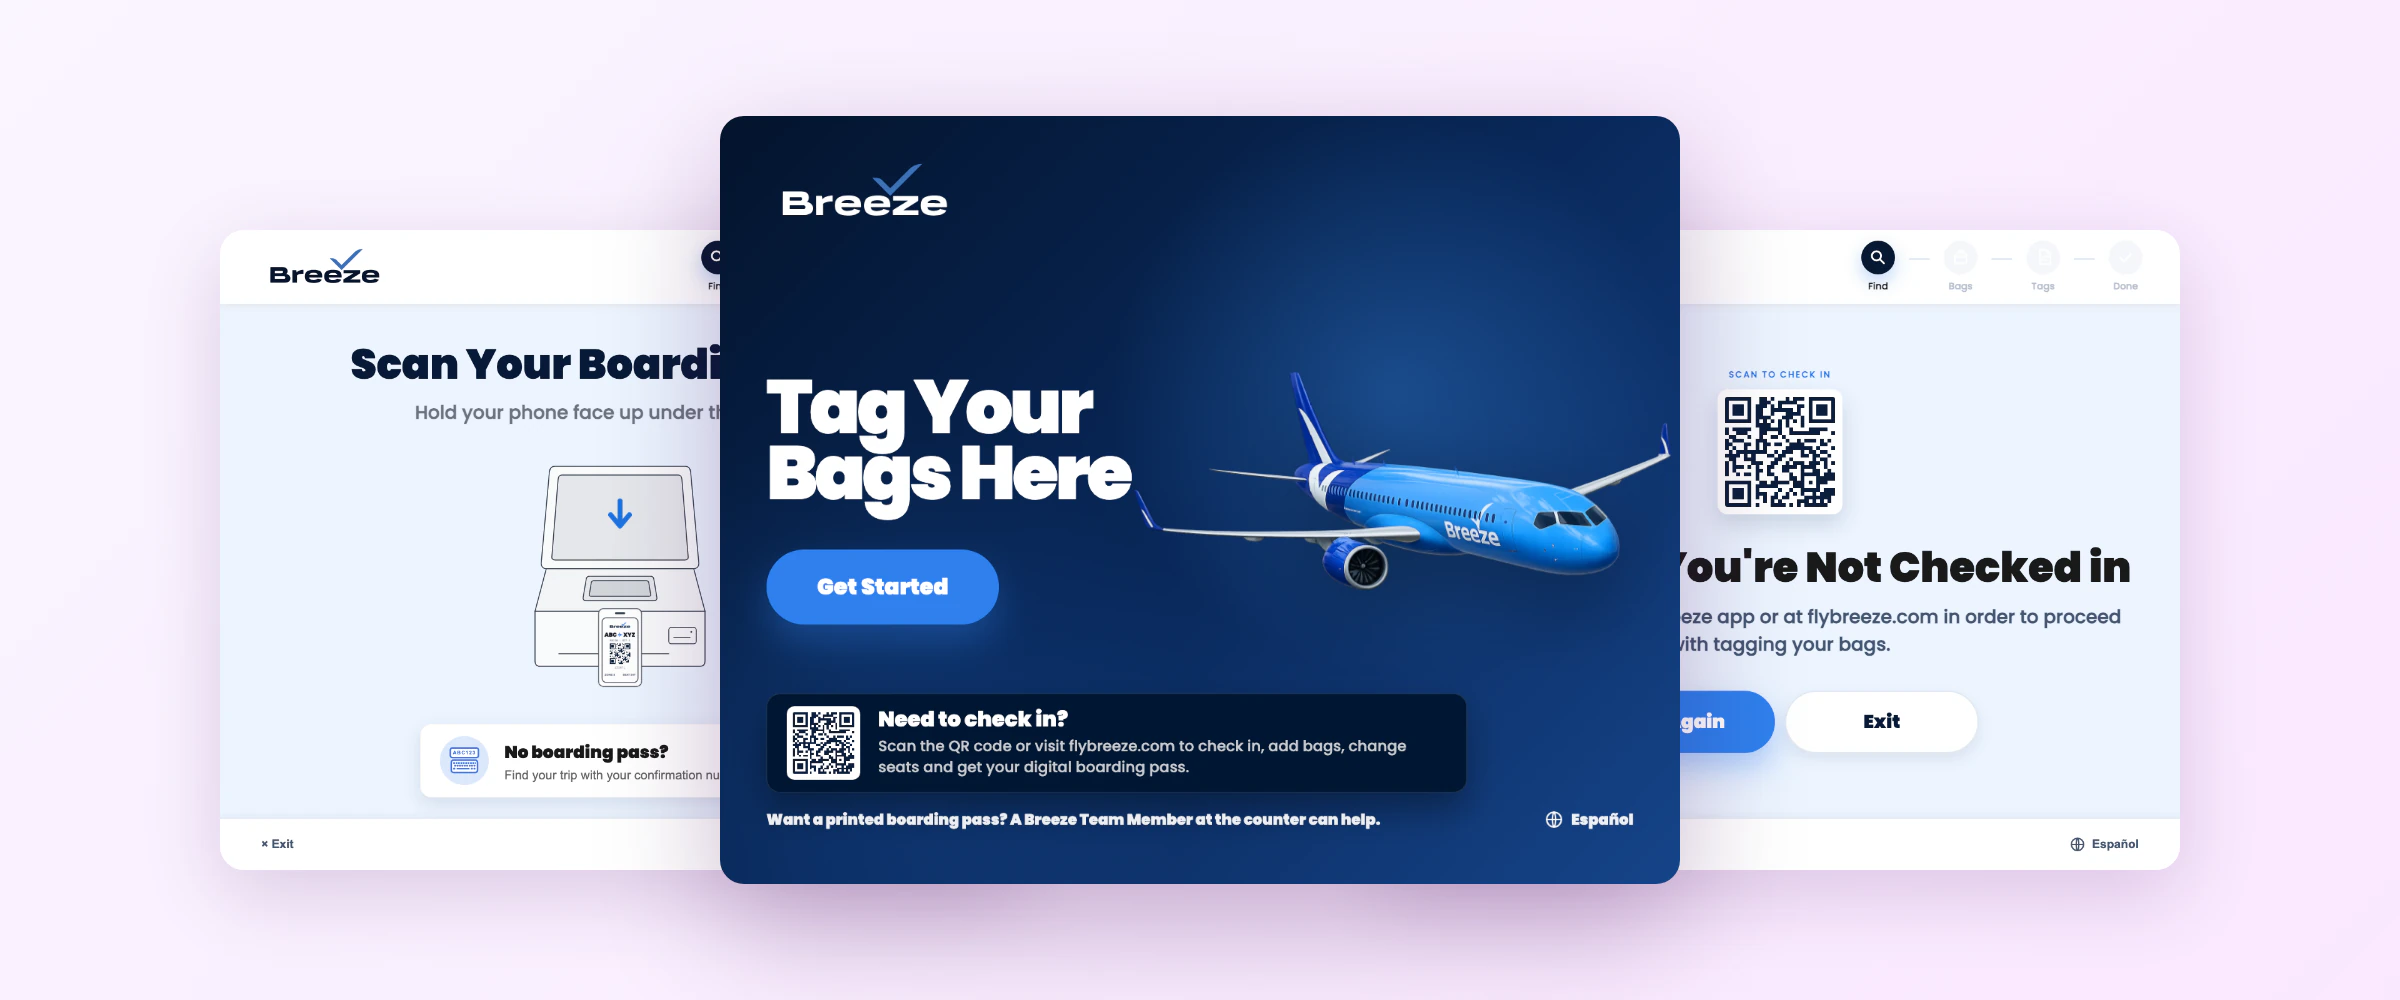
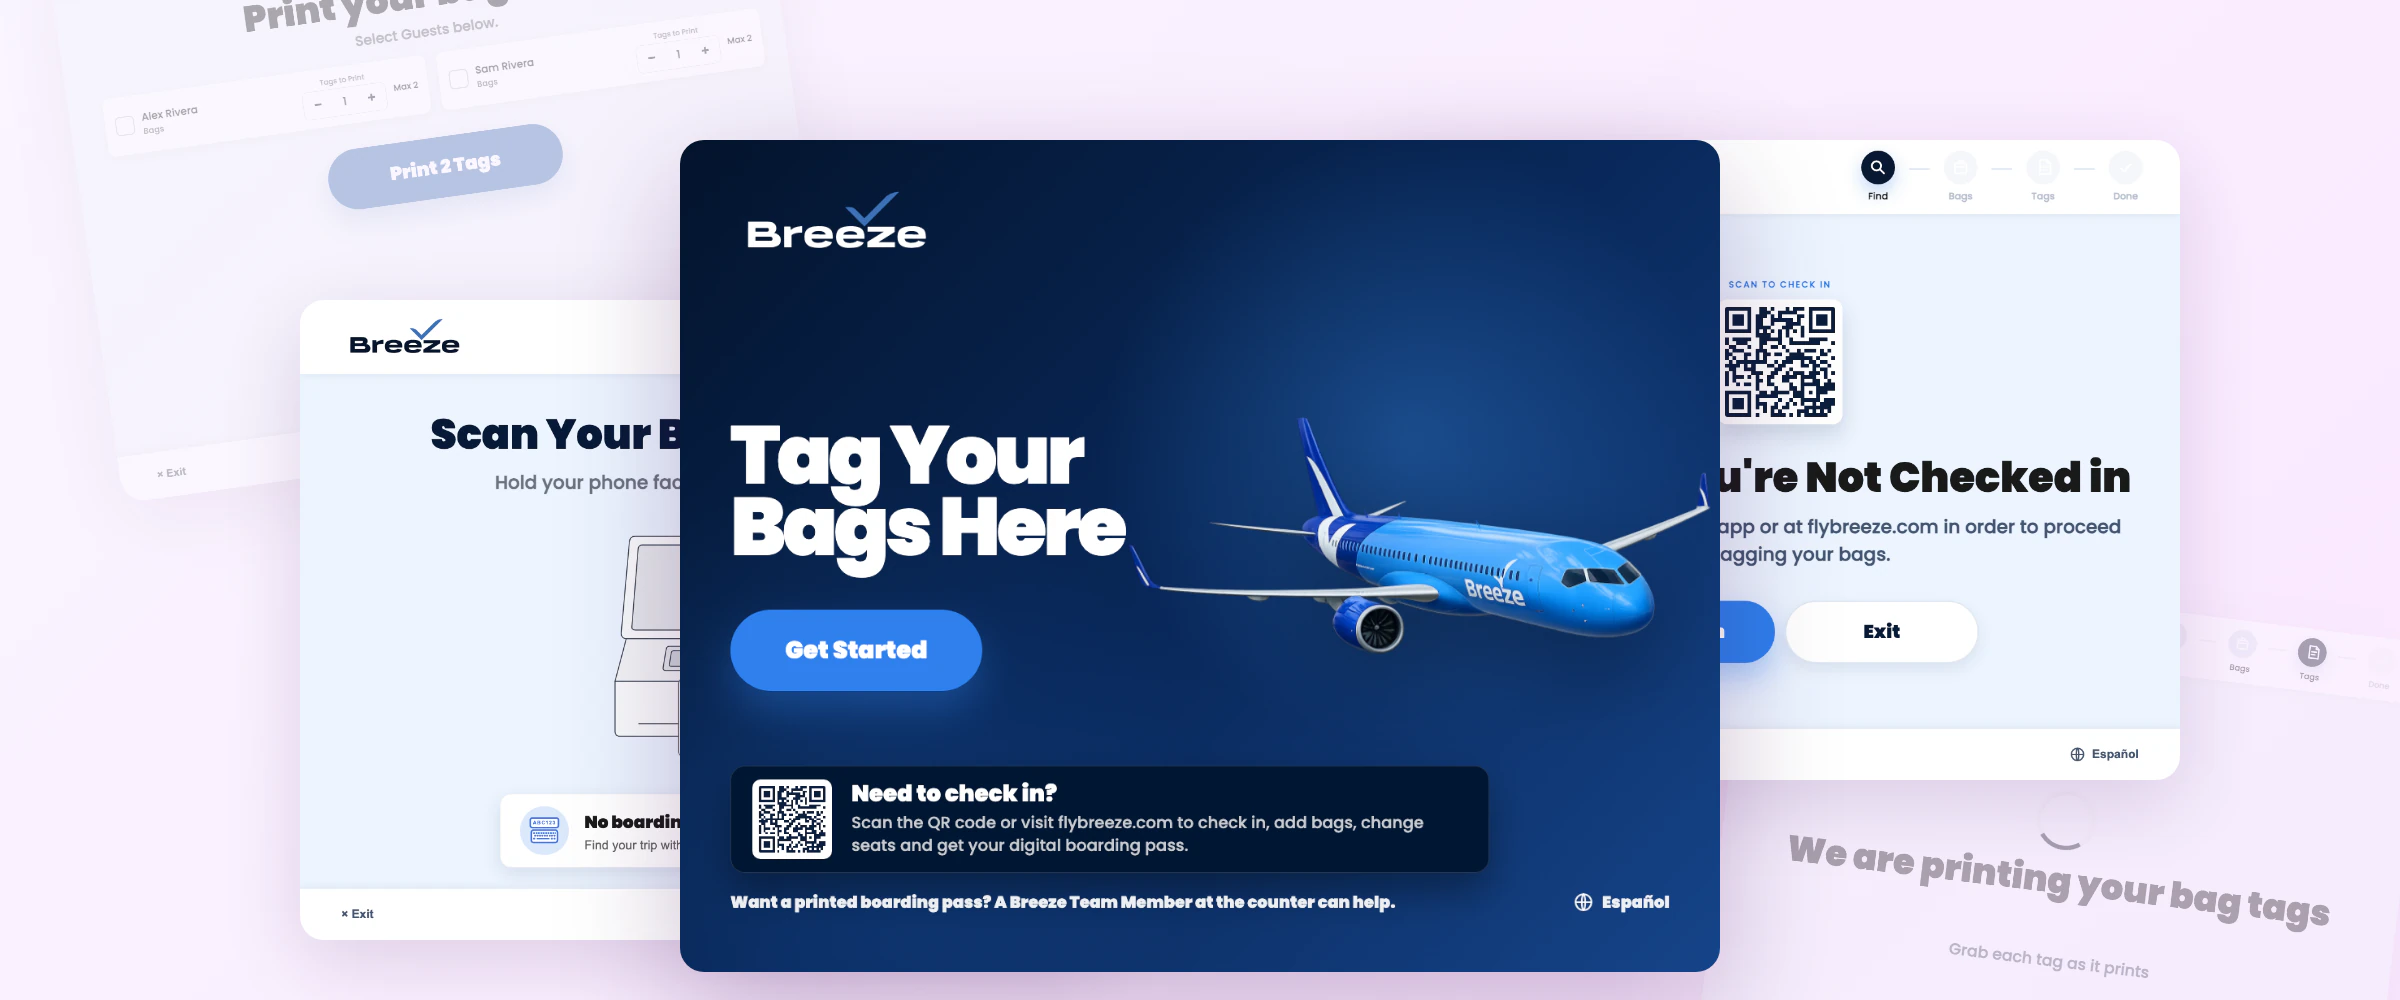
Restore wide kiosk cover; four-to-one card and cover for international; drop prototype footer from check-in renders

diff --git a/case-studies/doc-verification.html b/case-studies/doc-verification.html
@@ -44,7 +44,7 @@
     </header>
 
     <main>
-      <img src="../assets/images/doc-verification/cover.webp?v=2" class="case-header-img" alt="Two results from the International Travel Requirements lookup on mobile">
+      <img src="../assets/images/doc-verification/cover.webp?v=3" class="case-header-img" alt="Four per-traveler Entry Form cards collapsing into one card tagged All Travelers">
         <section class="basic-section">
             <div class="case-titles">
               <a href="../index.html#projects-section" class="back-link">
@@ -110,7 +110,7 @@
                 <figcaption class="image-caption caption-spaced">
                     The booking-level page, two bookings
                 </figcaption>
-                <div class="image-band"><img loading="lazy" decoding="async" src="../assets/images/doc-verification/checkin.webp"
+                <div class="image-band"><img loading="lazy" decoding="async" src="../assets/images/doc-verification/checkin.webp?v=2"
                      alt="Two versions of the Additional Documents page. For a family of four flying to the Dominican Republic, one Entry Form card tagged All Travelers. For a couple with U.S. and Ukraine passports, the same shared Entry Form card plus an Entry Authorization card tagged with only Olena Kovalenko's name."></div>
             </figure>
             <div class="text-block">

diff --git a/index.html b/index.html
@@ -113,7 +113,7 @@
                         </span>
                     </a>
                     <a href="case-studies/doc-verification.html" class="case-study-card case-study-card-blue">
-                        <span class="case-study-card-media" style="background-image: url(assets/images/doc-verification/card.webp?v=2);"></span>
+                        <span class="case-study-card-media" style="background-image: url(assets/images/doc-verification/card.webp?v=3);"></span>
                         <span class="case-study-card-copy">
                             <span class="case-study-card-meta caption-spaced">Check-in systems</span>
                             <span class="case-study-card-title header3-primary">System design for international check-in complexity.</span>

diff --git a/case-studies/airport-kiosks.html b/case-studies/airport-kiosks.html
@@ -44,7 +44,7 @@
     </header>
 
     <main>
-      <img src="../assets/images/kiosk/cover.webp?v=2" class="case-header-img" alt="Breeze kiosk screens: the Tag Your Bags Here welcome screen in front of the scan and not-checked-in screens">
+      <img src="../assets/images/kiosk/cover.webp?v=3" class="case-header-img" alt="Breeze kiosk screens: the Tag Your Bags Here welcome screen in front of the scan and not-checked-in screens">
         <section class="basic-section">
             <div class="case-titles">
               <a href="../index.html#projects-section" class="back-link">
